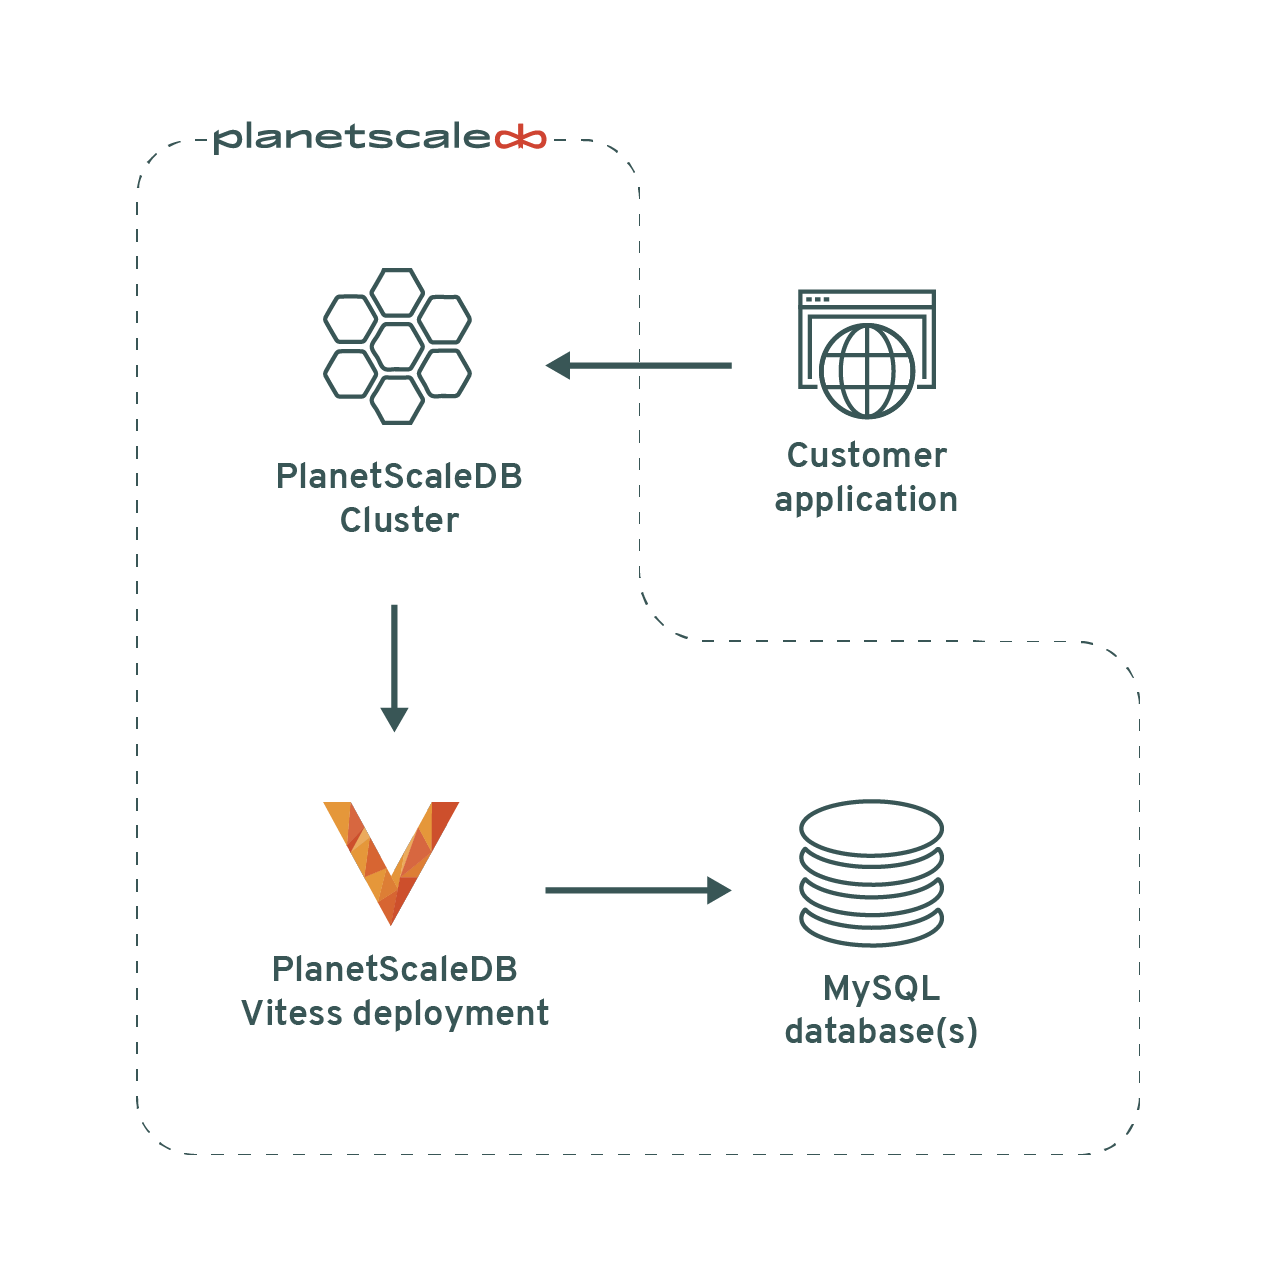
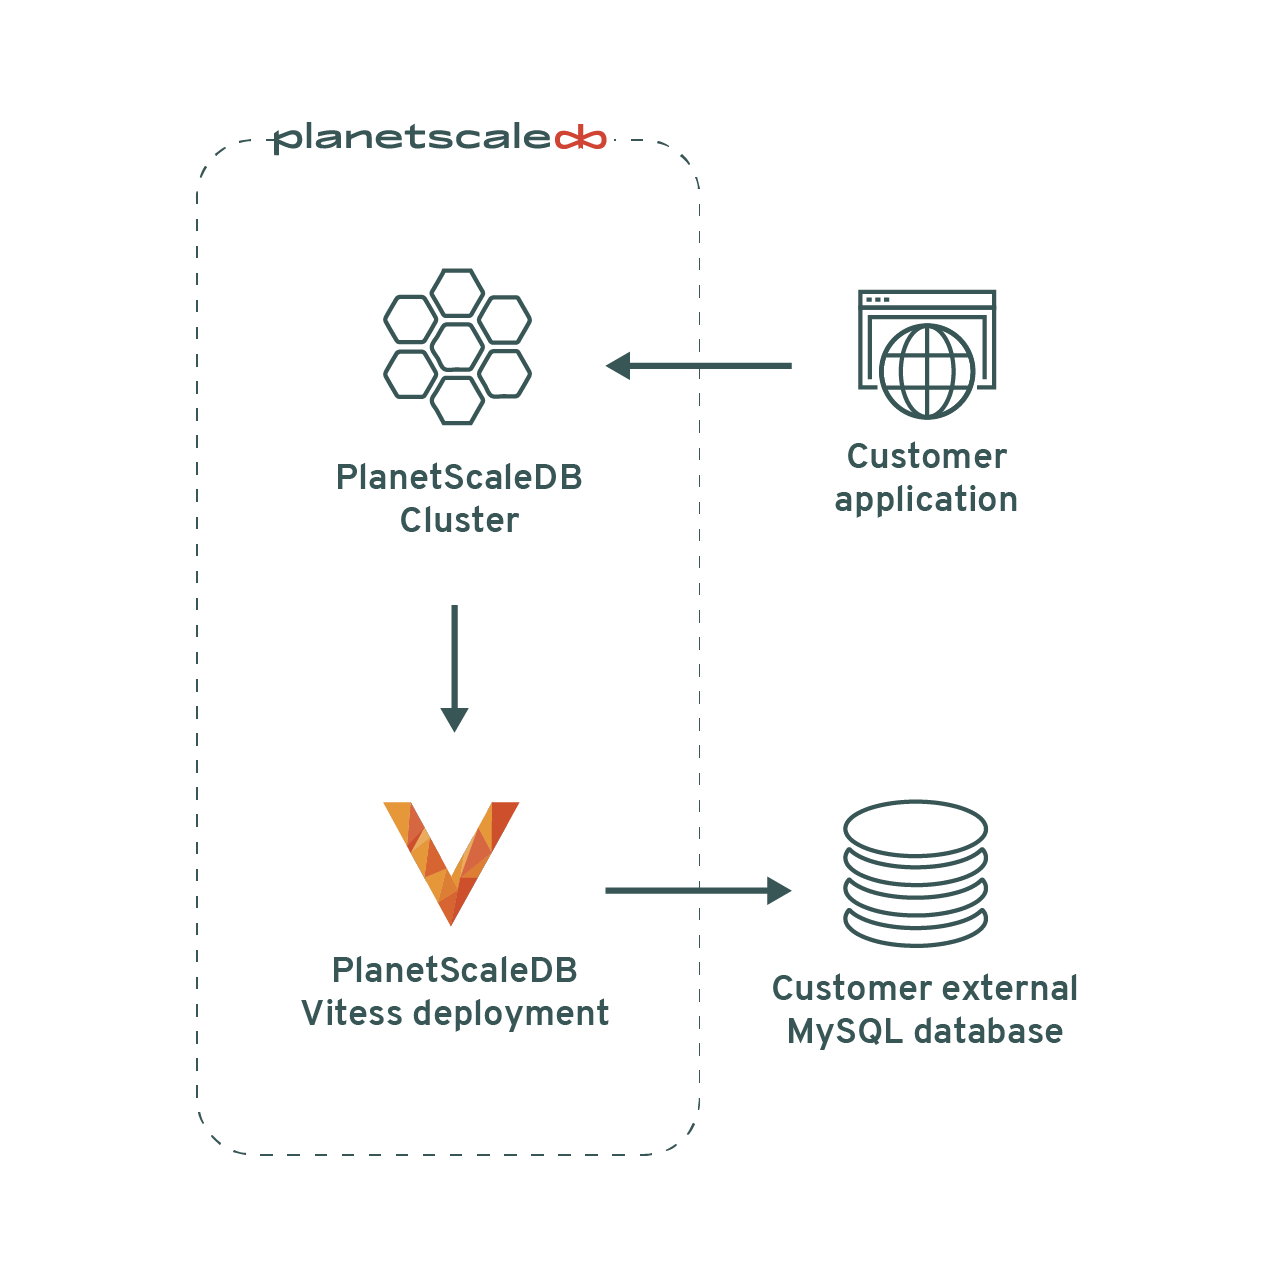
Swap diagrams and fix titles. (#566)
* Swap diagrams and fix titles.

* Fix overview of Database Link for clarity.

* Change opening sentence again.

* Fix typos and capitalization.

* Capitalize title.

diff --git a/content/docs/psdb/database-links.md b/content/docs/psdb/database-links.md
@@ -1,14 +1,14 @@
 ---
-title: 'Database links'
+title: 'Database Links'
 ---
 
 # Database Links
 
-This document explains the basic ideas behind database links in the PlanetScaleDB context.
+This document explains the basic ideas behind Database Links in the PlanetScaleDB context.
 
-## What is a database link?
+## What is a Database Link?
 
-A database link is a PlanetScaleDB database that issues queries against an underlying external MySQL database. You can connect to a database link using a [PlanetScaleDB connection string](connecting-to-db) and issue queries to it; PlanetScaleDB will process these queries as if the database were hosted inside PlanetScaleDB, then issue them against your external database and return any results.
+A Database Link allows you to connect to an external database via PlanetScaleDB. You can connect to a Database Link using a [PlanetScaleDB connection string](connecting-to-db) and issue queries to it; PlanetScaleDB will process these queries as if the database were hosted inside PlanetScaleDB, then issue them against your external database and return any results.
 
 ## Why link a database?
 
@@ -16,7 +16,7 @@ Linking your database to PlanetScaleDB allows you to test the compatibility of y
 
 ## How do databases links work?
 
-When you [link a database](linking-database), you provide connection details for your external database. PlanetScaleDB uses these connection details to connect to your database, and creates a representation of this database inside your PlanetScaleDB cluster, called a *database link*. PlanetScaleDB processes queries to the database link similarly to queries against a fully-hosted [PlanetScaleDB database](databases), and returns similar errors in response to unsupported queries. PlanetScaleDB does not issue any queries or statements to your database beyond those you issue yourself.
+When you [link a database](linking-database), you provide connection details for your external database. PlanetScaleDB uses these connection details to connect to your database, and creates a representation of this database inside your PlanetScaleDB cluster, called a *Database Link*. PlanetScaleDB processes queries to the database link similarly to queries against a fully-hosted [PlanetScaleDB database](databases), and returns similar errors in response to unsupported queries. PlanetScaleDB does not issue any queries or statements to your database beyond those you issue yourself.
 
 The diagram below outlines the fully-hosted PlanetScaleDB architecture:
 
@@ -24,7 +24,7 @@ The diagram below outlines the fully-hosted PlanetScaleDB architecture:
 
 This second diagram outlines the PlanetScaleDB Database Link architecture:
 
-![Fully-hosted PlanetScaleDB architecture diagram](/img/docs/psdb-database-link-architecture-diagram.png)
+![PlanetScaleDB Database Link architecture diagram](/img/docs/psdb-database-link-architecture-diagram.png)
 
 ## How does sharding work with database links?
 
